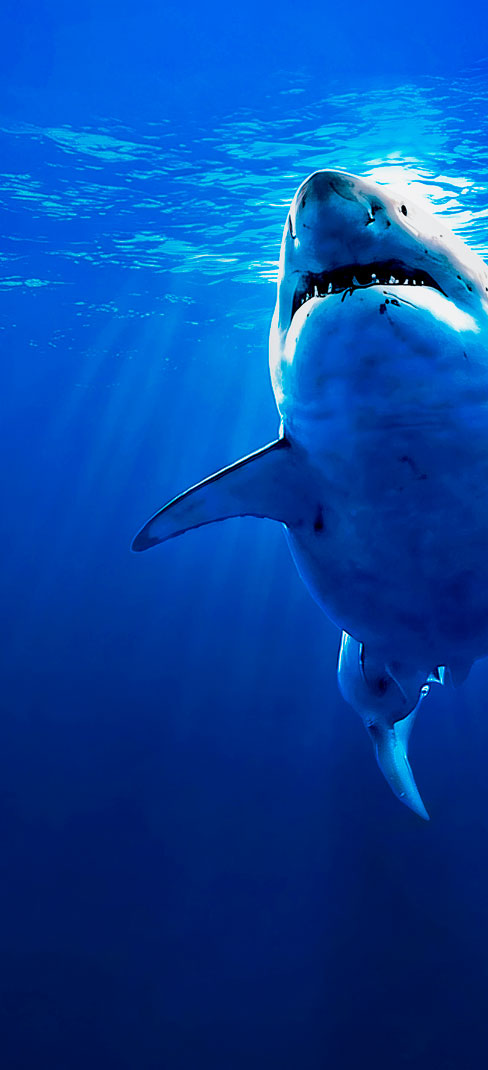
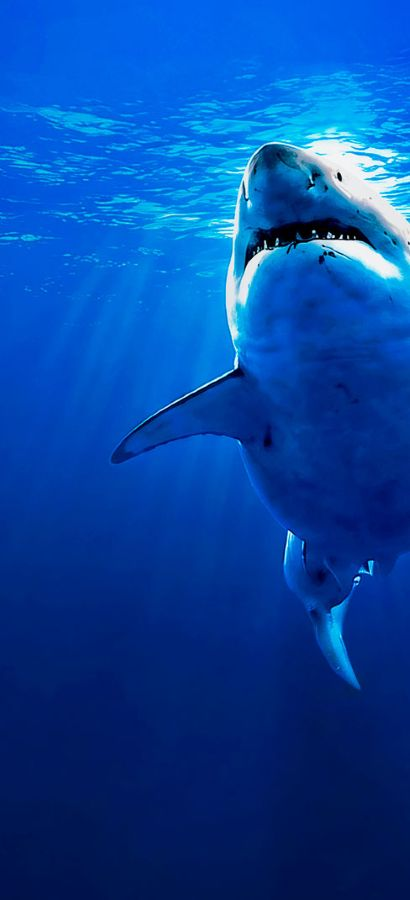
Test: Teste de faixa estranha aparecendo na hero do mobile.

diff --git a/assets/css/hero.css b/assets/css/hero.css
@@ -1,7 +1,11 @@
+#test {
+    color: red;
+}
+
 #main_content {
 
     width: 100%;
-    height: 100svh;
+    height: 100vh;
     display: flex;
     flex-direction: column;
     align-items: center;

diff --git a/index.html b/index.html
@@ -41,7 +41,7 @@
         <section id="hero_main">
             <div class="hero_content">
                 <span data-aos="fade-up" data-aos-duration="2000" class="hero_observation">PROJETO INDEPENDENTE</span>
-                <h1 data-aos="fade-up" data-aos-duration="2000" class="hero_title">O maior catálogo <br> de tubarões do
+                <h1 data-aos="fade-up" data-aos-duration="2000" class="hero_title">O maior catálogo <br> de <span id="test">tubarões</span> do
                     mundo.</h1>
                 <hr data-aos="fade-up" data-aos-duration="2000" class="hero_divider">
                 <p data-aos="fade-up" data-aos-duration="2000" class="hero_description">Explore mais de 530 espécies de